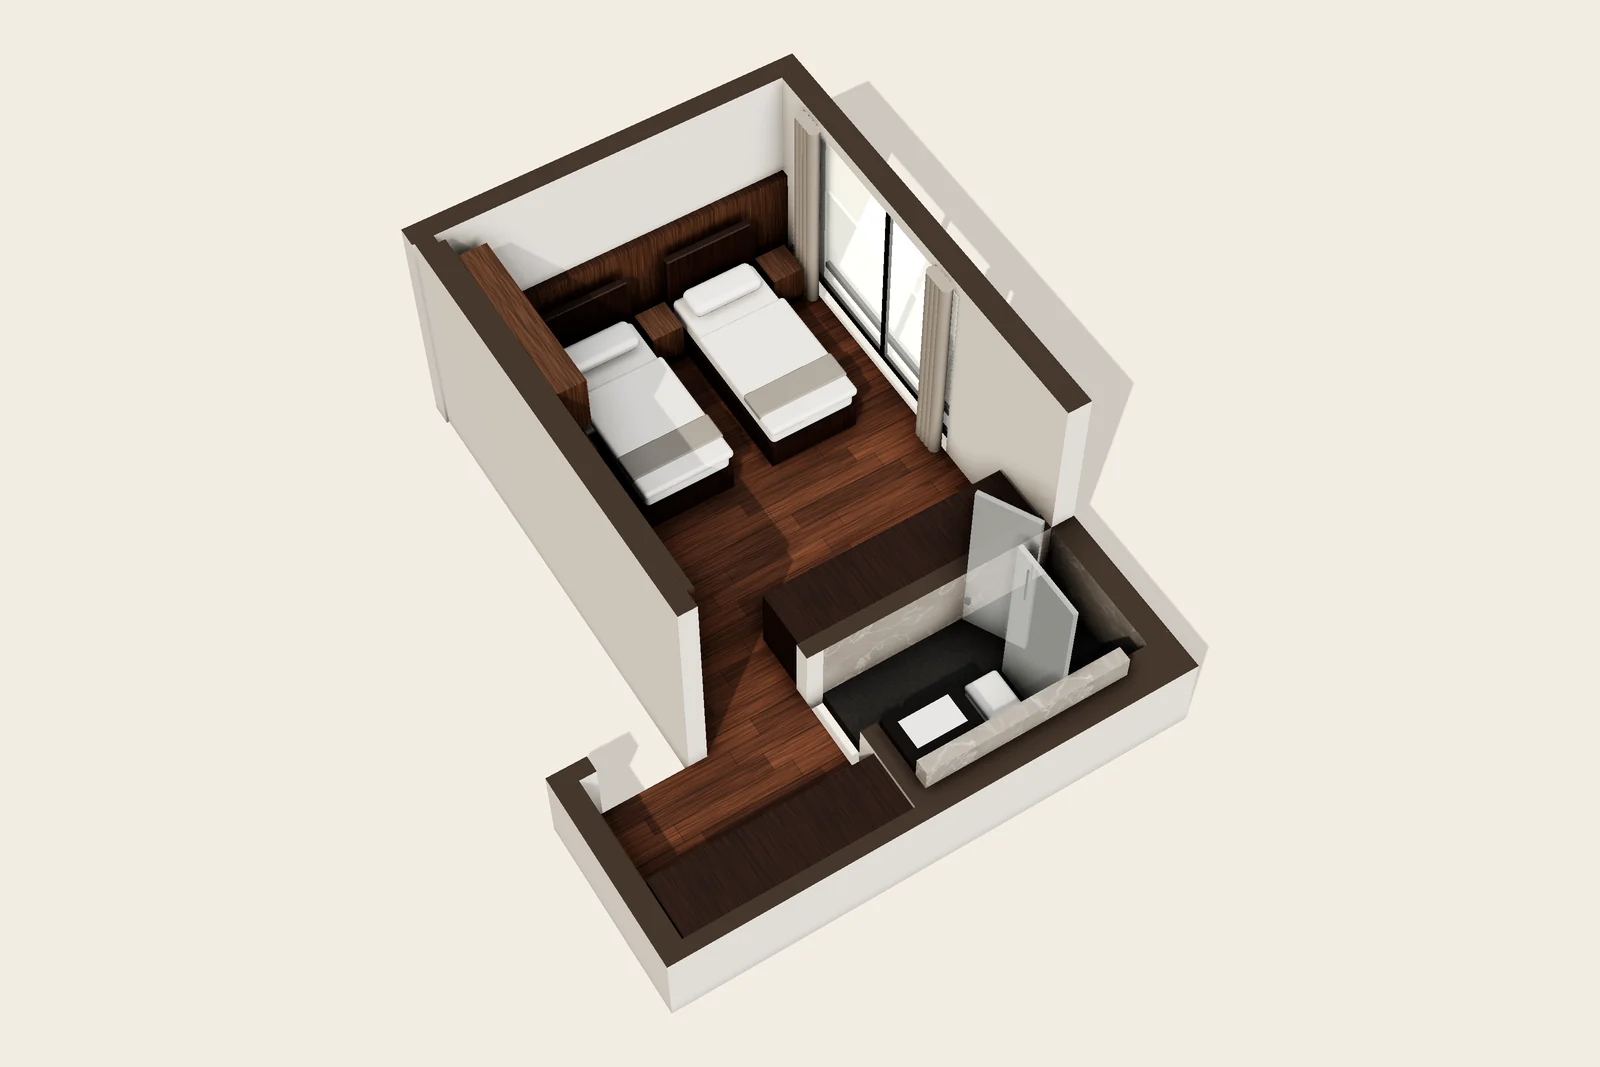
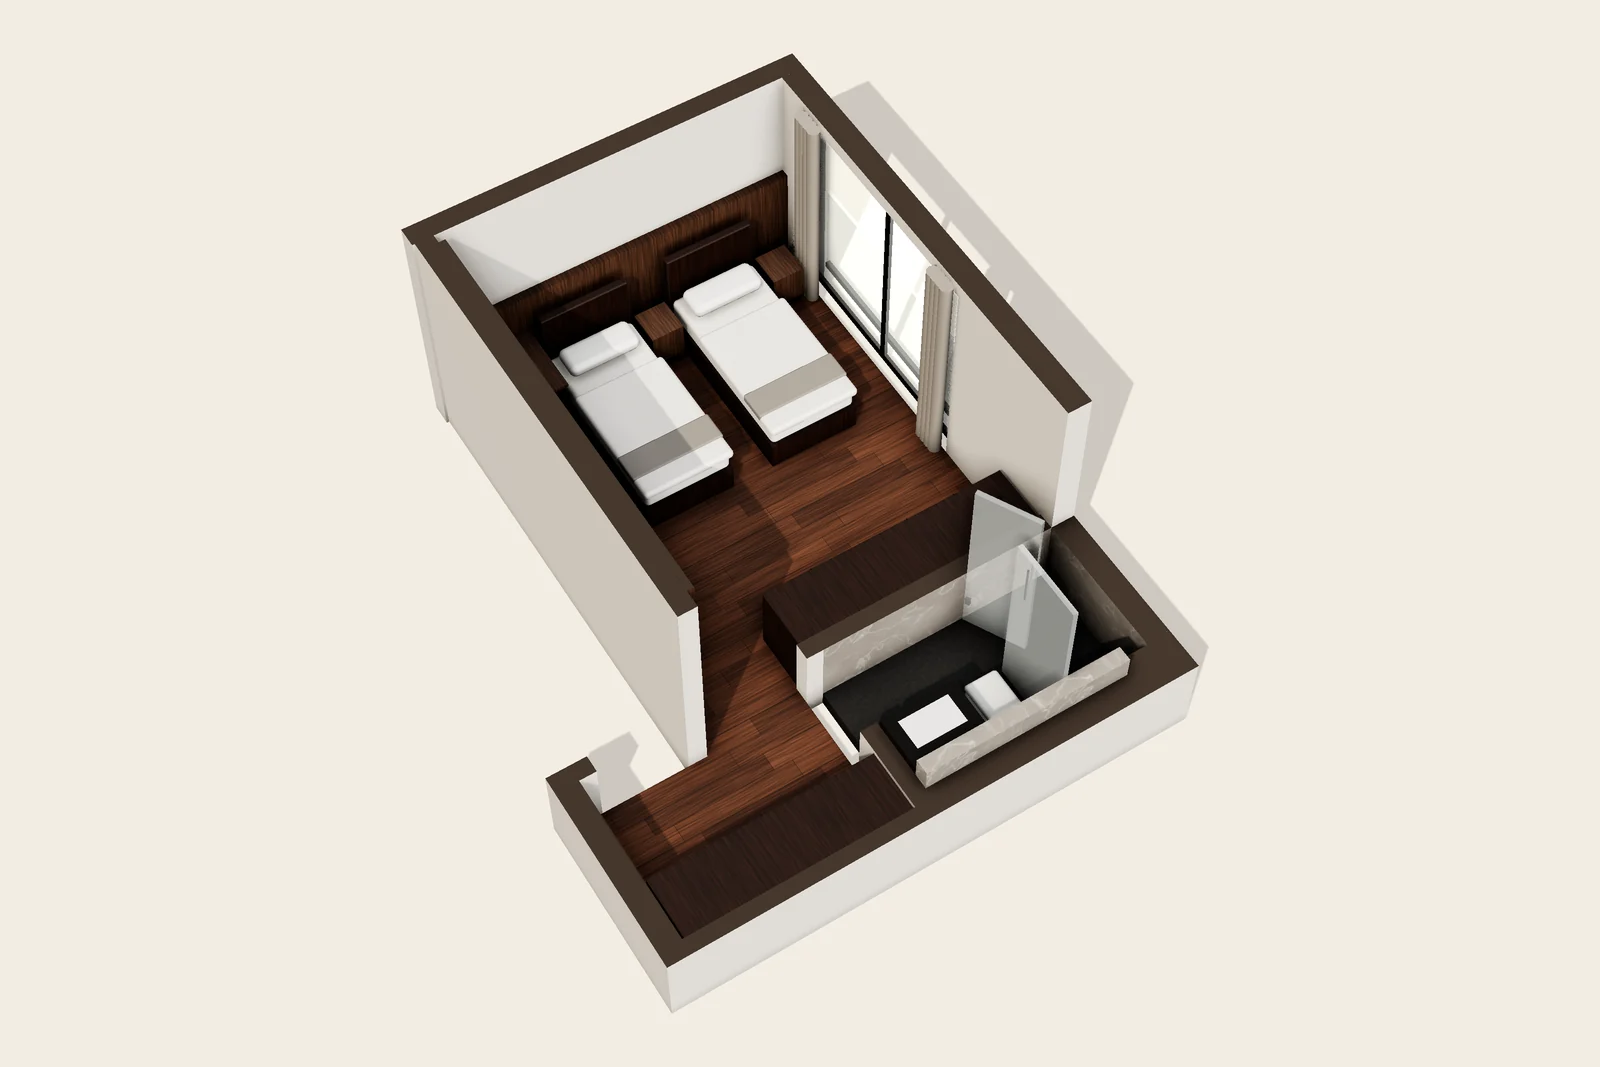
3D rooms: Elysia twin's small desk; Deluxe Twin's second bedside table
- Elysia Suite 3 (twin) has a small wall-hung desk beside the first
  bed, not the queen suite's long desk and overhead cabinets (photo
  and plan).
- Deluxe Twin has a bedside table between the beds as well as the one
  by the window.

Both the pictures and the explorable 3D view.

Changed region(s): [[0.2812, 0.2165, 0.4062, 0.4021]]

diff --git a/assets/js/rooms3d.js b/assets/js/rooms3d.js
@@ -347,6 +347,13 @@ export class Builder {
     this.box(...end, 0, h - 0.035, "walnut");
   }
 
+  // A wall-hung desk: a top over a shallow drawer, nothing to the floor.
+  hungDesk(x0, y0, x1, y1, h = 0.75) {
+    this.solid(x0, y0, x1, y1);
+    this.box(x0, y0, x1, y1, h - 0.035, h, "walnut");
+    this.box(x0 + 2, y0, x1 - 2, y1 - 4, h - 0.16, h - 0.035, "walnutDark");
+  }
+
   stool(cx, cy) {
     const r = 24;   // 40 cm seat
     this.box(cx - r, cy - r, cx + r, cy + r, 0.42, 0.49, "seat", { round: 0.03 });
@@ -588,7 +595,8 @@ export const ROOMS = {
       b.wardrobe(527, 563, 597, 770, "w");
       b.bed([175, 540, 290, 758], "s", { pillows: 1, headboard: "upholstery" });
       b.bed([348, 540, 462, 758], "s", { pillows: 1, headboard: "upholstery" });
-      b.nightstand(112, 712, 170, 758);
+      b.nightstand(112, 712, 170, 758);                               // by the window
+      b.nightstand(292, 712, 346, 758);                               // between the beds
       b.desk(118, 445, 215, 482, "w");
       b.stool(168, 500);
       b.rug(138, 492, 500, 680);
@@ -676,7 +684,6 @@ function elysia(b, beds) {
   if (beds === "queen") b.planter(1754, 85, 1801, 400);
   b.wall(1291, 45, 1716, 56, { h1: 1.2, mat: "walnut" });          // headboard panelling
   b.wall(1291, 56, 1299, 562, { mat: "walnut" });                    // panelled side wall
-  b.wall(1299, 78, 1335, 290, { h0: 1.8, h1: 2.4, mat: "walnut" });  // cabinets over the desk
   b.wall(1299, beds === "queen" ? 320 : 330, 1308, 460, { h0: 1.0, h1: 1.8, mat: "tv" });
   b.wall(1434, 768, 1518, 770, { h0: 1.15, h1: 2.1, mat: "mirror" });
   b.ledge(1432, 752, 1677, 770);
@@ -691,14 +698,15 @@ function elysia(b, beds) {
     b.nightstand(1361, 80, 1462, 125, 0.55);
     b.nightstand(1655, 80, 1700, 125);
     b.desk(1299, 78, 1361, 290, "n");
+    b.wall(1299, 78, 1335, 290, { h0: 1.8, h1: 2.4, mat: "walnut" });  // cabinets over the desk
     b.stool(1384, 186);
   } else {
     b.bed([1381, 82, 1491, 305], "n", { pillows: 1 });
     b.bed([1541, 82, 1651, 305], "n", { pillows: 1 });
     b.nightstand(1496, 80, 1536, 122);
     b.nightstand(1656, 80, 1696, 122);
-    b.desk(1299, 80, 1361, 240, "n");
-    b.stool(1384, 170);
+    b.hungDesk(1299, 58, 1377, 146);   // the twin suite has only a small desk beside the bed
+    b.stool(1335, 158);
   }
   if (beds === "queen") b.rug(1411, 185, 1706, 430);   // the twin suite's plan has no rug
   b.curtain(1699, 92, 1715, 132);
